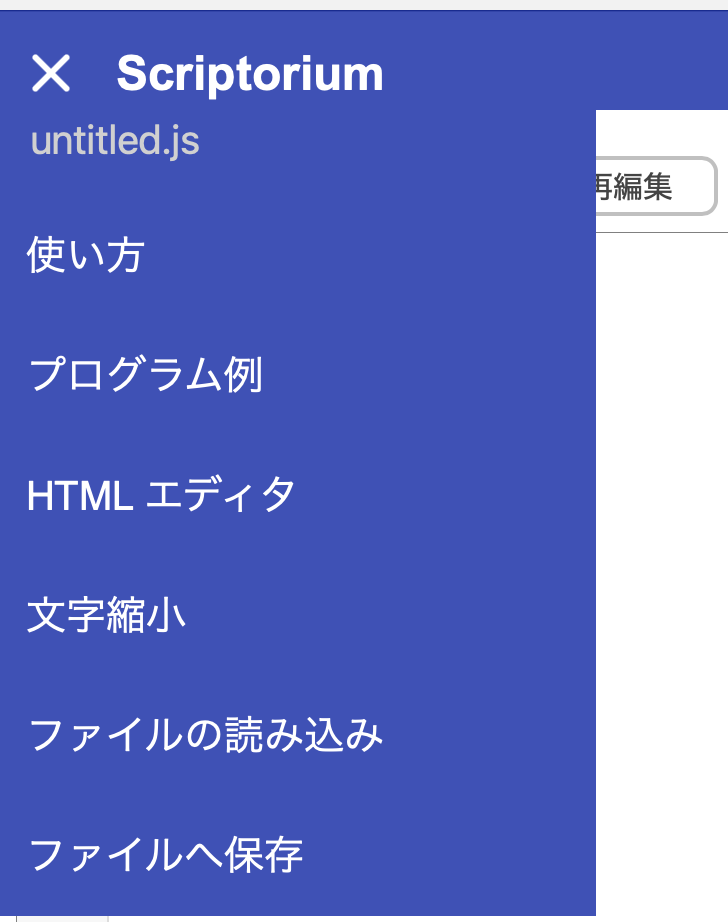
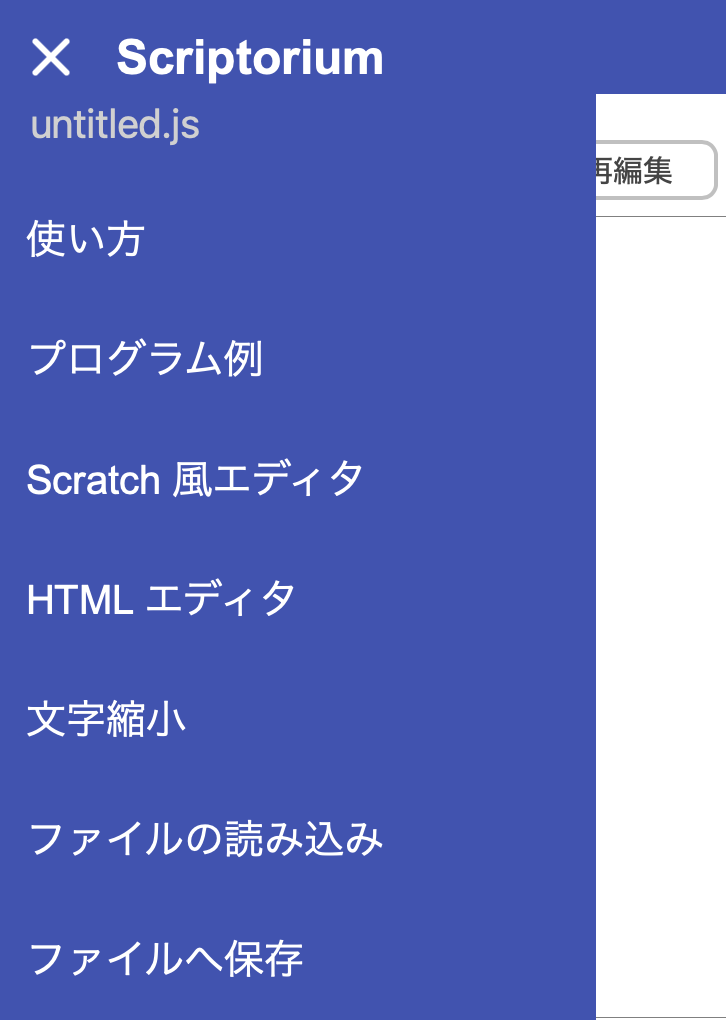
modifies help.html

diff --git a/help.html b/help.html
@@ -67,6 +67,8 @@
     <p>このページを表示する。</p>
     <li>プログラム例</li>
     <p>プログラムの例を示したページを表示する。</p>
+    <li>Scratch 風エディタ</li>
+    <p>Scratch 言語風にブロックを組合わせて JavaScript プログラムを書くためのエディタを表示する。</p>
     <li>HTML エディタ</li>
     <p>HTML ファイルの編集用のエディタを表示する。</p>
     <li>文字縮小（文字拡大）</li>

diff --git a/scriptorium.css b/scriptorium.css
@@ -257,7 +257,7 @@ div#bottom {
 .helpdoc {
     margin-left: 45px;
     margin-right: 100px;
-    font-size: 16px;
+    font-size: 15px;
     width: 900px;
     color: #404040;
 }
